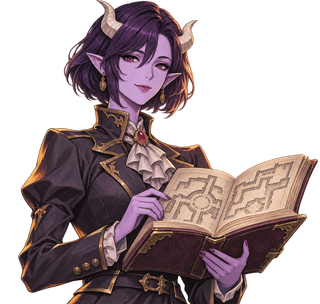
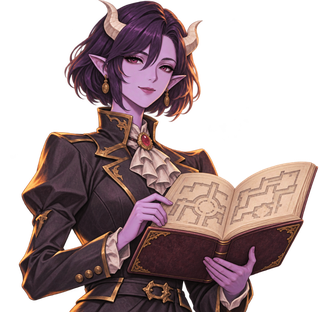
Correct the secretary portrait book and grip

Changed region(s): [[0.0312, 0.0, 1.0, 1.0], [0.1562, 0.5921, 0.1875, 0.6217]]

diff --git a/assets/README.md b/assets/README.md
@@ -152,3 +152,9 @@ Create a single 3 by 3 game animation sprite sheet of same dark-haired swordmast
 ### 勇者
 
 Sprite atlas on transparent alpha for the reference adult JRPG hero with blue gold plate and white cape. Strict 3x3 grid, 9 isolated whole-body sprites with generous gutters; top row sword attack facing left, casting normal magic, luminous ultimate sword slash; middle row heavy hurt recoiling no blood, blocking, on knee defeated; bottom row running away right, charging lightning, sword held up victoriously. Preserve identity and front three-quarter camera. No labels, independent cells, no background or shadow.
+
+### レイラの本の修正
+
+既存の立ち絵を参照し、組み込み ImageGen で本の綴じ目、表紙、ページの遠近、両手の接点を修正しました。
+
+Precisely edit the existing transparent game portrait. Fix ONLY the open book and its immediate contact with the hands. This is one medium-sized open leather-bound dungeon plans notebook held comfortably at chest/waist height, in the same position/size as the reference. Draw a single continuous central spine, two clearly attached matching covers, a consistent V formed by the left and right page blocks, and continuous thin layered page edges. The folded outer cover follows the pages; nothing sticks out separately or doubles up. Simple faint ink maze plans rest flat on the pages and obey the paper perspective. Her left hand in lower right of image supports the bottom of the right cover from underneath with a natural grip; her right hand on image left lightly touches the outer edge of the left page, with naturally curved fingers, exactly one anatomically plausible hand at each existing wrist. No extra fingers or objects. Preserve as exactly as possible the original face, expression, purple skin, hair, horns, jewelry, jacket, cuffs, arms beyond fingers, silhouette, crop, painters' palette and warm rim lighting. Preserve true transparent background, no text or scenery. The book must look like a physically plausible open book.
